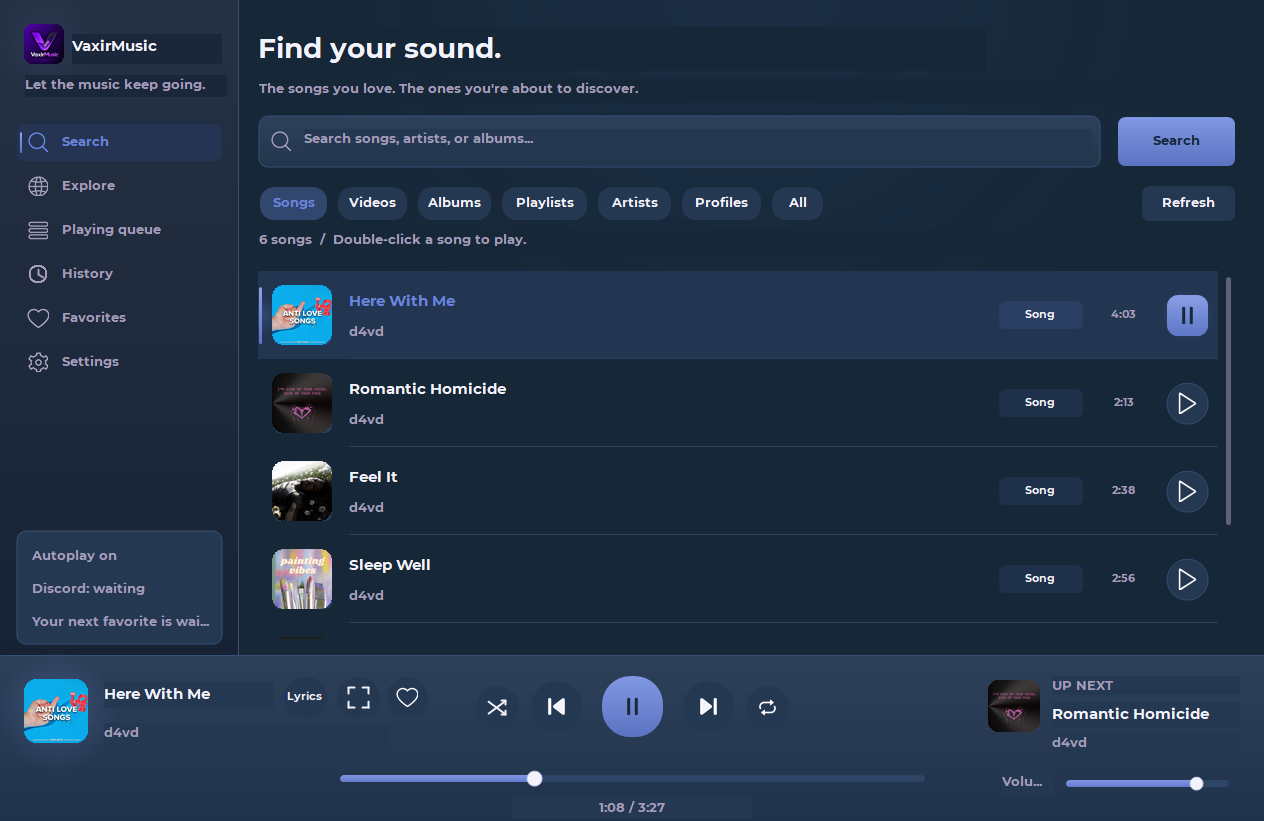
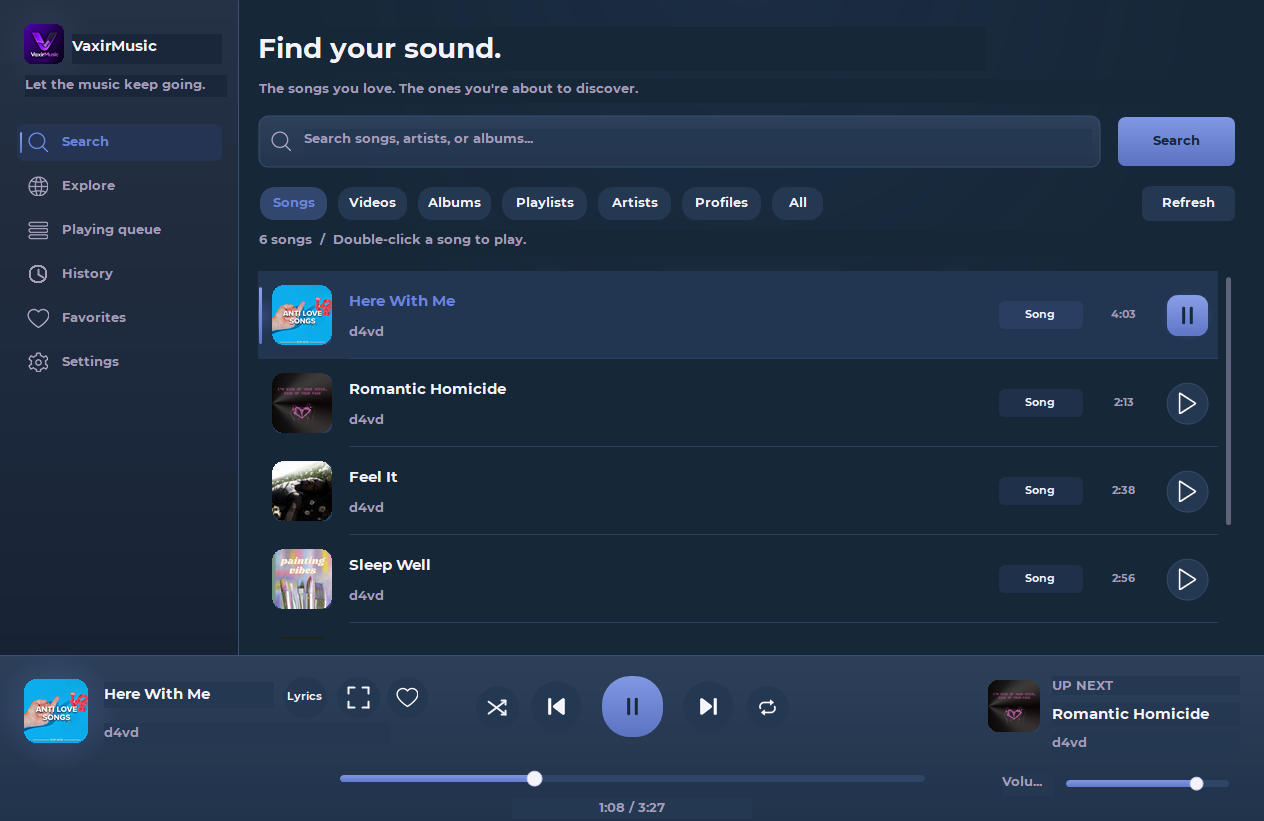
Update downloads for fixed VaxirMusic setup 1.0.1

Changed region(s): [[0.0, 0.6395, 0.1851, 0.7917]]

diff --git a/index.html b/index.html
@@ -451,8 +451,8 @@
               ><span aria-hidden="true">↗</span></a
             >
             <p class="release-meta">
-              <span id="release-version">Version 1.0</span><span>·</span
-              ><span id="release-size">80 MB</span><span>·</span
+              <span id="release-version">Version 1.0.1</span><span>·</span
+              ><span id="release-size">80.2 MB</span><span>·</span
               ><span
                 data-en="Windows 10 / 11 (64-bit)"
                 data-th="Windows 10 / 11 (64 บิต)"
@@ -543,13 +543,14 @@
             How do I update or uninstall?
           </summary>
           <p
-            data-en="Run setup.exe again. It detects your installed app and lets you choose Update or Uninstall. Close VaxirMusic before continuing. Uninstall preserves your favorites, listening history, and settings in your Windows user profile."
-            data-th="เปิด setup.exe อีกครั้ง ตัวติดตั้งจะตรวจพบโปรแกรมเดิมและให้เลือก Update หรือ Uninstall ปิด VaxirMusic ก่อนดำเนินการ การถอนการติดตั้งจะยังเก็บรายการโปรด ประวัติ และการตั้งค่าไว้ในโปรไฟล์ผู้ใช้ Windows"
+            data-en="Run setup.exe again. It detects your installed app and lets you choose Update or Uninstall. Update automatically closes the installed VaxirMusic app before replacing its files. Close the app before uninstalling. Uninstall preserves your favorites, listening history, and settings in your Windows user profile."
+            data-th="เปิด setup.exe อีกครั้ง ตัวติดตั้งจะตรวจพบโปรแกรมเดิมและให้เลือก Update หรือ Uninstall การอัปเดตจะปิด VaxirMusic ในโฟลเดอร์ที่ติดตั้งโดยอัตโนมัติก่อนแทนที่ไฟล์ สำหรับการถอนการติดตั้งให้ปิดโปรแกรมก่อน โดยรายการโปรด ประวัติ และการตั้งค่าจะยังถูกเก็บไว้ในโปรไฟล์ผู้ใช้ Windows"
           >
             Run setup.exe again. It detects your installed app and lets you
-            choose Update or Uninstall. Close VaxirMusic before continuing.
-            Uninstall preserves your favorites, listening history, and settings
-            in your Windows user profile.
+            choose Update or Uninstall. Update automatically closes the
+            installed VaxirMusic app before replacing its files. Close the app
+            before uninstalling. Uninstall preserves your favorites, listening
+            history, and settings in your Windows user profile.
           </p>
         </details>
         <details>
